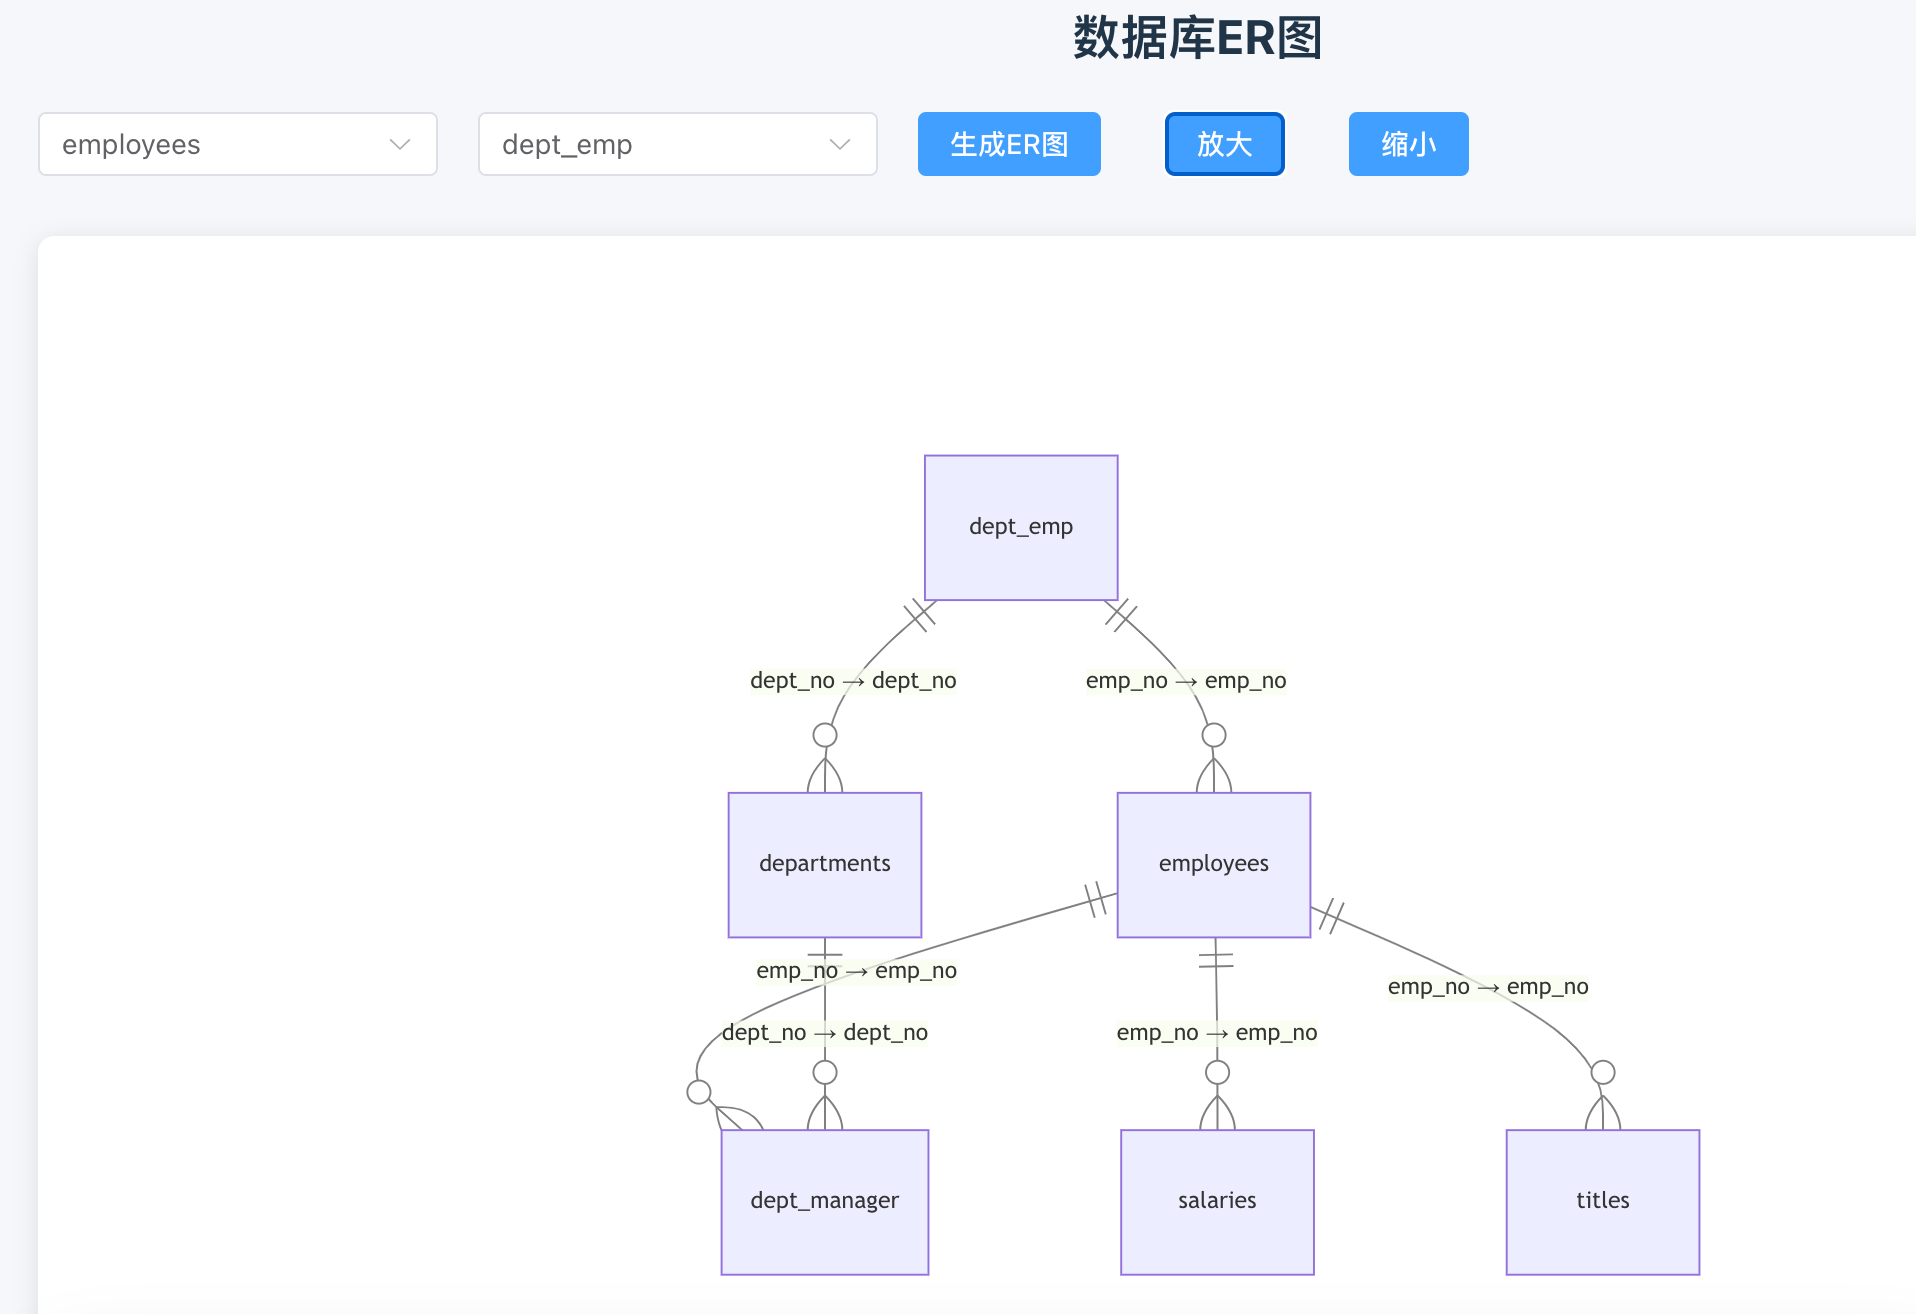
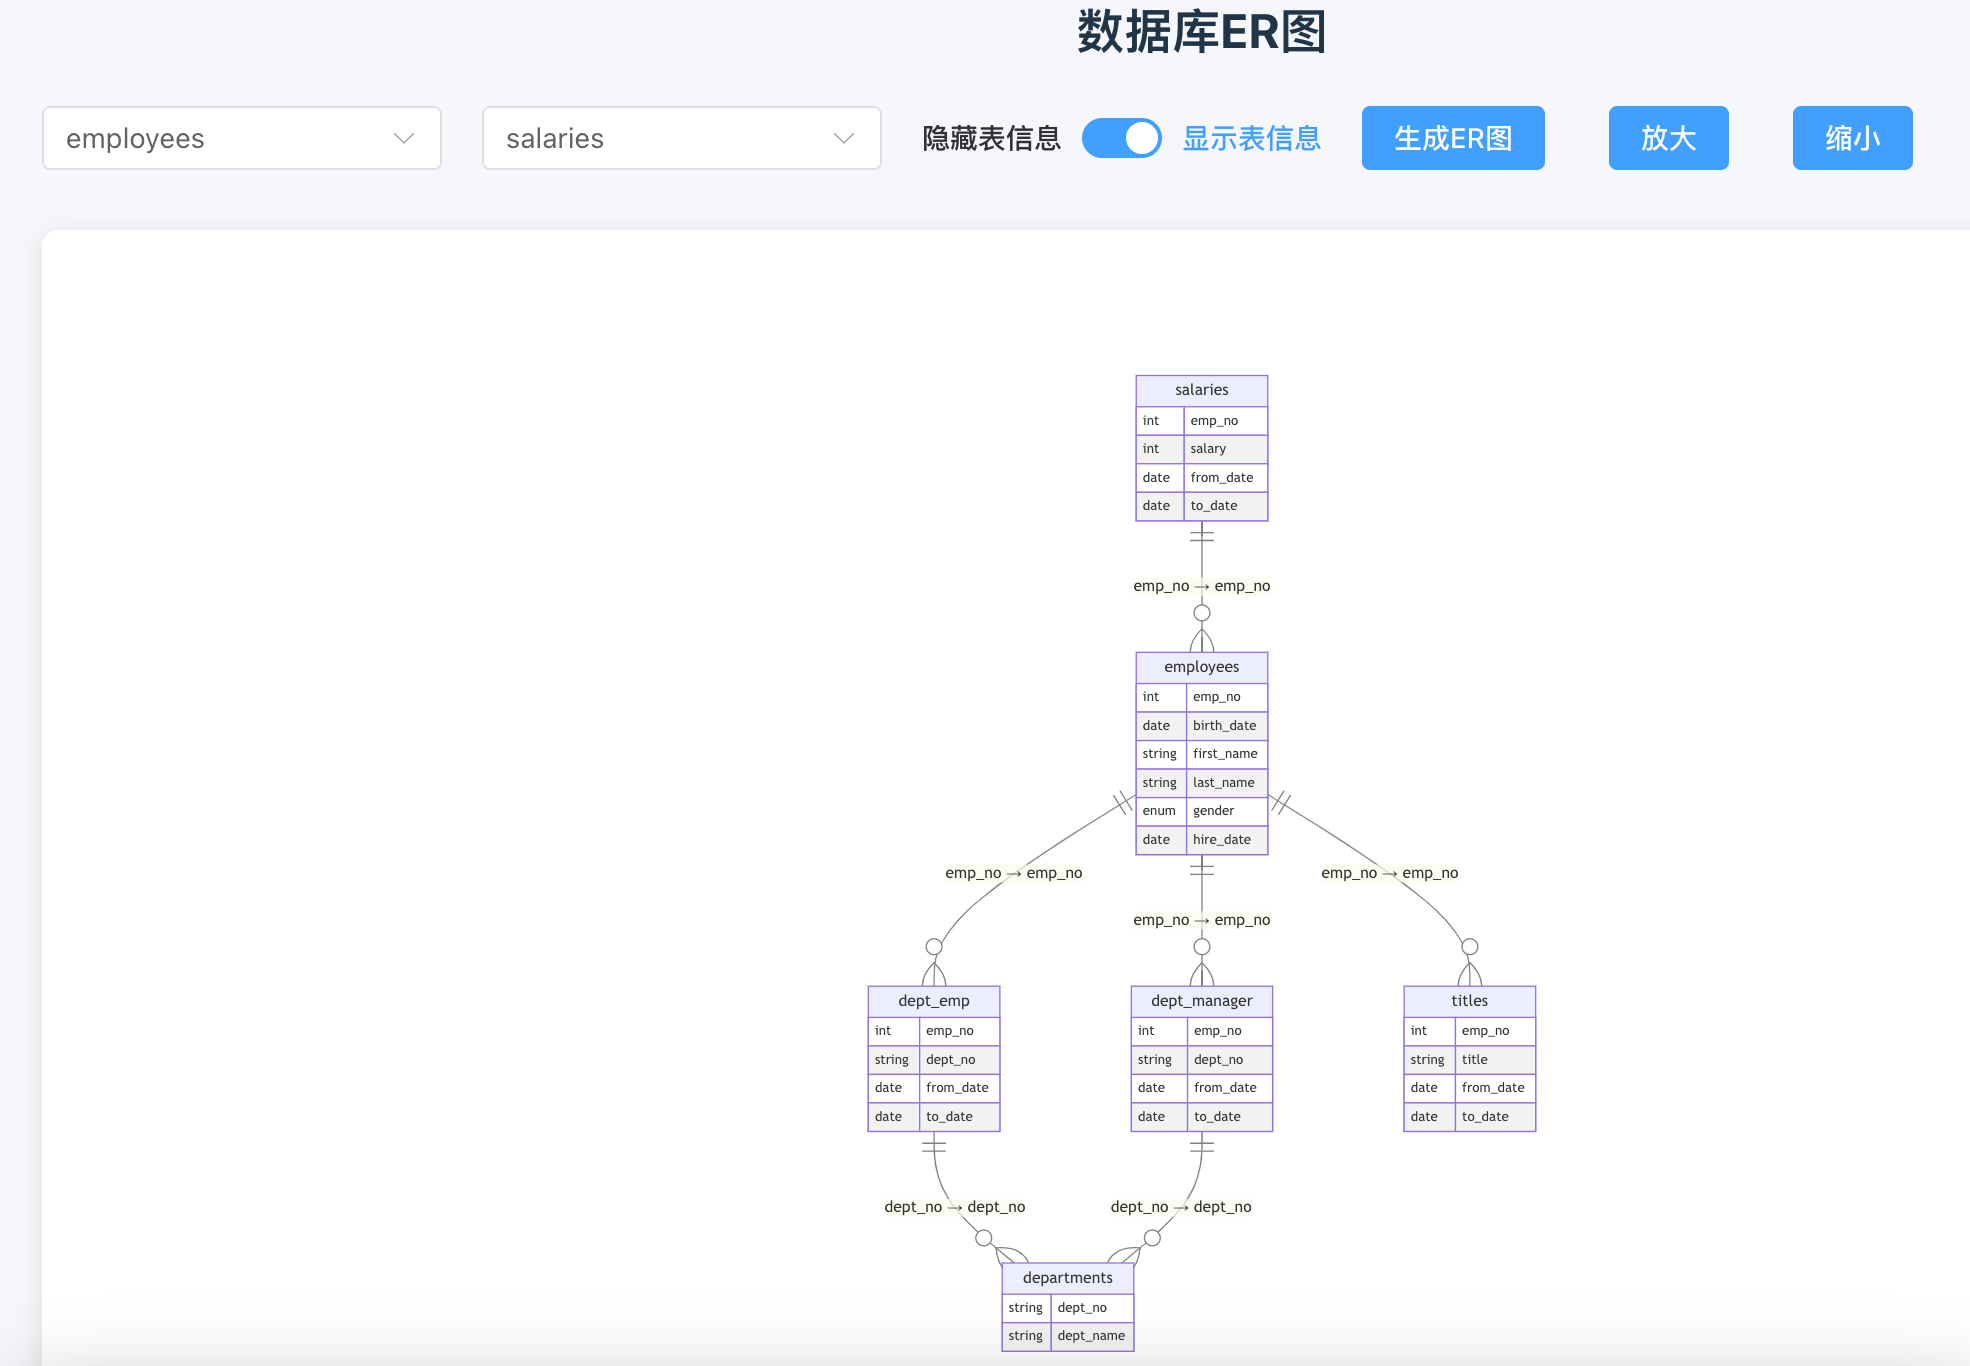
update talbe relation

diff --git a/source/_posts/table-relation-query.md b/source/_posts/table-relation-query.md
@@ -52,13 +52,77 @@ tags: [工具]
 
 需要输入一下对应的db和table即可，会查找所有关联的表进行展示，并同时展示关联的字段关系
 
-![image-20250202153245488](../images/table-relation/er-diagram.png)
+![image-20250205133459078](../images/table-relation/er-diagram.png)
 
 ### 数据查询
 
 最后就是数据的查询，选择db和表后，需要输入对应的查询条件，这时会查询对应的数据，同时会将关联的表和数据同时在下方进行展示（目前限制了单表数据最多10条）
 
 ![image-20250202153437403](../images/table-relation/data-query.png)
+
+
+
+### 后续扩展
+
+在有个表关系的ER图后，我们可以比较容易的让大模型来帮助我们根据自然语言来生成查询SQL了
+
+将memaid格式的ER图文本和自然语言提供给大模型即可，这里举一个小例子(langchain)：
+
+```python
+class ExecutableSql(BaseModel):
+    """可执行的SQL信息"""
+    sql: str = Field(description="查询结果的SQL语句")
+
+def sql_generation(er_diagram: str, description: str, llm: BaseChatModel) -> str:
+    """
+    根据用户的请求，和er图，生成最终的SQL语句
+    """
+
+    # 构造解析器
+    parser = PydanticOutputParser(pydantic_object=ExecutableSql)
+    # 构造提示词模版
+    prompt = PromptTemplate(
+        template="根据如何mermaid格式的ER图:\n{er_diagram}\n\n为这个请求生成SQL查询语句:\n{description}\n\n，{format_instructions}\n",
+        input_variables=["description", "er_diagram"],
+        partial_variables={"format_instructions": parser.get_format_instructions()},
+    )
+
+    # 将提示此、llm、结果解析器构造成链
+    chain = prompt | llm | parser
+    # 使用参数实际调用获取结果
+    sqlInfo = chain.invoke({"er_diagram": er_diagram, "description": description})
+    return sqlInfo.sql
+```
+
+这里使用了mysql 例子中的employees数据库来实际看下，生成的ER图如下：
+
+![image-20250205141424741](../images/table-relation/employees-er-diagram.png)
+
+将左侧ER图的文本和问题，如：`查询一下员工编号为10002的基本信息、所在部门，以及不同时间对应的薪资情况`提供给大模型，可以得到如下结果：
+
+```sql
+SELECT 
+    e.emp_no,
+    e.birth_date,
+    e.first_name,
+    e.last_name,
+    e.gender,
+    e.hire_date,
+    d.dept_name,
+    s.salary,
+    s.from_date AS salary_from_date,
+    s.to_date AS salary_to_date
+FROM employees e
+JOIN dept_emp de ON e.emp_no = de.emp_no
+JOIN departments d ON de.dept_no = d.dept_no
+JOIN salaries s ON e.emp_no = s.emp_no
+WHERE e.emp_no = 10002
+ORDER BY s.from_date;
+```
+
+我们实际执行一下，获取结果：
+
+![image-20250205141618269](../images/table-relation/employees_data_result.png)
 
 
 
